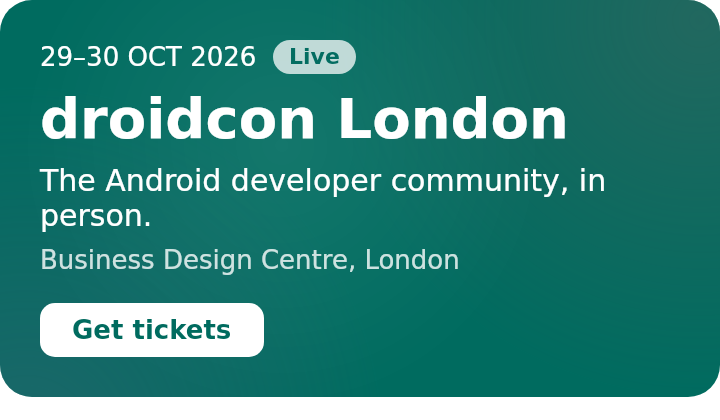
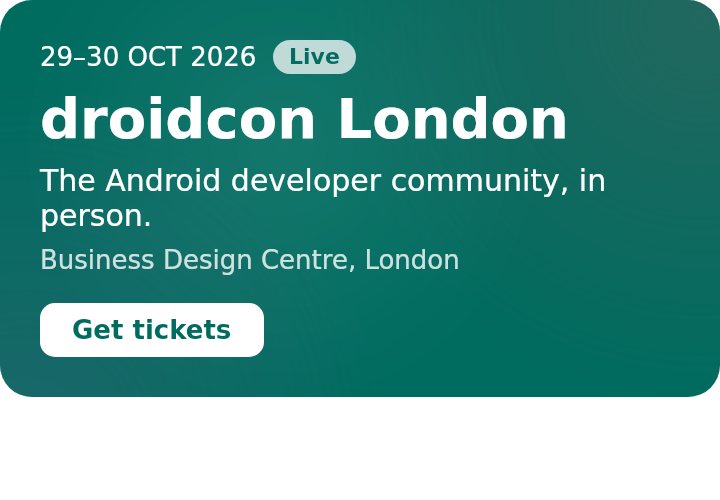
fix(livery): the long conference example has a tickets URL, and the base header fits it
The long conference example had no ticketsUrl, so no render combined a long venue with the
tickets button. It does now. At 210dp the base header then squeezed the button to a sliver, so it
is 250dp. Chip also takes a modifier, so a row can weight it.

Claude-Session: https://claude.ai/code/session_017xSuvobFYXdQ2QMpahMagX

diff --git a/livery-contracts/src/commonMain/kotlin/dev/johnoreilly/confetti/livery/Contracts.kt b/livery-contracts/src/commonMain/kotlin/dev/johnoreilly/confetti/livery/Contracts.kt
@@ -162,7 +162,9 @@ object ConferenceContract : ConfettiContract("confetti/conference", 1, 0, "Confe
             tagline to "The Kotlin conference, by JetBrains.", live to true, ticketsUrl to "https://kotlinconf.com"),
         "long" to mapOf(name to "A conference name that is forty chars xx", dates to "Thirty-two characters of dates x",
             location to "A venue name that runs on for quite a while, sixty chars xx",
-            tagline to "A tagline at its ninety character limit, to check that the header wraps and stays legibl"),
+            tagline to "A tagline at its ninety character limit, to check that the header wraps and stays legibl",
+            // With a tickets button too: a long venue must leave it room.
+            ticketsUrl to "https://example.com/tickets"),
     )
 }
 

diff --git a/livery-catalog/src/main/kotlin/dev/johnoreilly/confetti/livery/ConfettiDesigns.kt b/livery-catalog/src/main/kotlin/dev/johnoreilly/confetti/livery/ConfettiDesigns.kt
@@ -40,7 +40,9 @@ val ConfettiDesigns: List<DesignDef> = designs(
     session = { with(ContractScope(SessionContract, Confetti)) { ConfettiSession() } },
     speaker = { with(ContractScope(SpeakerContract, Confetti)) { ConfettiSpeaker() } },
     promo = { with(ContractScope(PromoContract, Confetti)) { ConfettiPromo() } },
-    // A two-line headline and a three-line body leave the CTA no room at 200dp.
+    // At the contracts' limits: a two-line name and tagline leave the tickets button no room at
+    // 210dp, and a two-line headline and three-line body the promo's CTA none at 200dp.
+    headerHeightDp = 250,
     promoHeightDp = 240,
 )
 

diff --git a/livery-catalog/src/main/kotlin/dev/johnoreilly/confetti/livery/Common.kt b/livery-catalog/src/main/kotlin/dev/johnoreilly/confetti/livery/Common.kt
@@ -139,9 +139,15 @@ fun LivePill(live: RemoteBoolean, background: RemoteColor, content: RemoteColor,
 
 /** A small rounded tag. */
 @Composable
-fun Chip(text: RemoteString, background: RemoteColor, content: RemoteColor, corner: Int = 50) {
+fun Chip(
+    text: RemoteString,
+    background: RemoteColor,
+    content: RemoteColor,
+    corner: Int = 50,
+    modifier: RemoteModifier = RemoteModifier,
+) {
     RemoteBox(
-        modifier = RemoteModifier
+        modifier = modifier
             .clip(RemoteRoundedCornerShape(corner.rdp))
             .background(background)
             .padding(horizontal = 10.rdp, vertical = 4.rdp),
